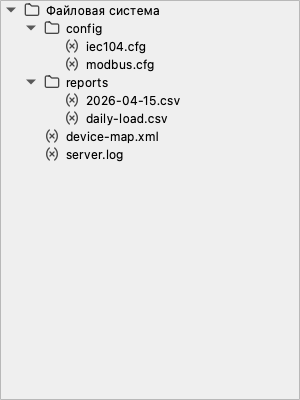
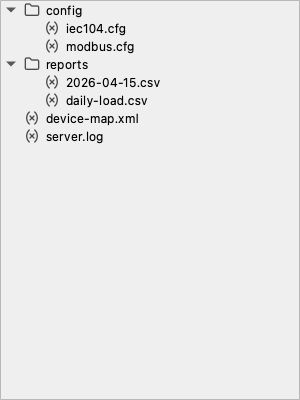
client: the Explorer's trees start at their content, not at a row repeating the pane title
Mirrors into Qt the information-architecture rule the web client took on in
f302f671a, which CLAUDE.md holds shared between the two realms: a single-subject
Explorer pane names its subject once, and a tree whose heading already names its
root draws no row for that root. Appearance stays each realm's own; only the
structure is shared.

Two of the web's three changes had nothing to mirror. Qt draws no section
heading anywhere -- a pane is a WIN_SING WindowInfo that ViewManager renders as
a QDockWidget titled from WindowInfo::title, and nothing sits between that title
bar and the tree. The root row was the whole duplication, and it hit all four
ConfigurationTreeView panes: against the shipped nodesets, Files read "Файлы"
over "Файлы", Objects "Объекты" over "Все объекты", Subsystems "Оборудование"
over "Все оборудование", Nodes "Узлы" over "Корневая папка".

The third had nothing to mirror either, and that is the finding worth keeping.
The web had to move the root's commands to a pane-head overflow, because its
tree row was the only selection target. Qt does not: UpdateSelection already
maps an EMPTY selection onto the root, so the context menu, the menu bar and the
command toolbar all still act on it. What Qt has no equivalent of is the
overflow control itself -- the docks wear Qt's stock title bar and no pane
carries a QToolBar -- so that is filed as 638 rather than invented here.

Hiding a root turned out to need work in Tree first. It is a
[…]

Changed region(s): [[0.03, 0.0, 0.6, 0.42], [0.09, 0.06, 0.12, 0.09]]

diff --git a/aui/qt/tree.cpp b/aui/qt/tree.cpp
@@ -29,6 +29,9 @@ class TreeProxyModel : public QSortFilterProxyModel {
   // QSortFilterProxyModel
   virtual bool lessThan(const QModelIndex& source_left,
                         const QModelIndex& source_right) const override;
+  virtual bool filterAcceptsRow(
+      int source_row,
+      const QModelIndex& source_parent) const override;
 
  private:
   Tree& tree_;
@@ -38,6 +41,20 @@ class TreeProxyModel : public QSortFilterProxyModel {
 void TreeProxyModel::SetCompareHandler(TreeCompareHandler handler) {
   compare_handler_ = std::move(handler);
   invalidateFilter();
+}
+
+// The model's one top-level row is the tree's root, and it is never filtered
+// out. Two reasons, and the second is a correctness one: dropping it hides the
+// whole tree anyway, since every other row descends from it; and
+// Tree::SetRootVisible(false) makes it the view's root index, a
+// QPersistentModelIndex that a removal invalidates for good — so a filter that
+// matched nothing would bring the root row back the moment it was cleared.
+// Rows below it filter normally, recursion included.
+bool TreeProxyModel::filterAcceptsRow(int source_row,
+                                      const QModelIndex& source_parent) const {
+  if (!source_parent.isValid())
+    return true;
+  return QSortFilterProxyModel::filterAcceptsRow(source_row, source_parent);
 }
 
 bool TreeProxyModel::lessThan(const QModelIndex& source_left,
@@ -103,6 +120,10 @@ Tree::Tree(std::shared_ptr<TreeModel> model)
   setModel(proxy_model_.get());
 
   SetRootVisible(false);
+  // A reset invalidates every index, the root index above among them, so it
+  // has to be set again — see TreeTest.HiddenRootStaysHiddenAcrossAModelReset.
+  connect(proxy_model_.get(), &QAbstractItemModel::modelReset, this,
+          &Tree::ApplyRootVisible);
 
   // https://stackoverflow.com/questions/26011291/initial-width-of-column-in-qtableview-via-model
   // If you need to initialize column widths based on Qt::SizeHintRole you need
@@ -245,13 +266,21 @@ void Tree::SetCheckedNodes(std::set<void*> nodes) {
 }
 
 void Tree::SetRootVisible(bool visible) {
-  if (visible) {
+  root_visible_ = visible;
+  ApplyRootVisible();
+}
+
+void Tree::ApplyRootVisible() {
+  if (root_visible_) {
     setRootIndex({});
     // A visible root still needs the branch decoration; otherwise the
     // top-level node loses its expander and only the root row is shown.
     setRootIsDecorated(true);
     expand(model()->index(0, 0));
   } else {
+    // Re-read the index rather than trusting the stored one: this also runs
+    // after a model reset, which invalidates the QPersistentModelIndex
+    // QTreeView keeps. Leaving it invalid silently re-exposes the root row.
     setRootIndex(model()->index(0, 0));
     setRootIsDecorated(true);
   }

diff --git a/aui/test/qt/tree_unittest.cpp b/aui/test/qt/tree_unittest.cpp
@@ -68,6 +68,16 @@ class LateFilledTreeModel : public scada::aui::TreeNodeModel<TestTreeNode> {
     if (root()->GetChildCount() != 0)
       Remove(*root(), 0, root()->GetChildCount());
   }
+
+  // Replaces the whole tree the way a model backed by one payload at a time
+  // does (`modules/watch/frame_decode_tree_model.cpp` is the one in the
+  // client): every index the view holds is invalidated.
+  void Reset() {
+    TreeModelResetting();
+    set_root(std::make_unique<TestTreeNode>(u"Root"));
+    TreeModelReset();
+    Populate();
+  }
 };
 
 }  // namespace
@@ -82,6 +92,50 @@ TEST(TreeTest, VisibleRootStaysDecoratedAndExpanded) {
   ASSERT_TRUE(root_index.isValid());
   EXPECT_TRUE(tree.rootIsDecorated());
   EXPECT_TRUE(tree.isExpanded(root_index));
+}
+
+// A hidden root is the view's root index, which a model reset invalidates. Left
+// unrestored, the root row reappears above the tree — which is what every
+// decode after the first drew in the protocol-trace pane before the pane
+// re-hid it by hand.
+TEST(TreeTest, HiddenRootStaysHiddenAcrossAModelReset) {
+  AppEnvironment app_env;
+
+  auto model = std::make_shared<LateFilledTreeModel>();
+  model->Populate();
+  scada::aui::Tree tree{model};
+  ASSERT_TRUE(tree.rootIndex().isValid());
+  // The root's children are the top level: one group, not one root row.
+  ASSERT_EQ(tree.model()->rowCount(tree.rootIndex()), 1);
+
+  model->Reset();
+
+  EXPECT_TRUE(tree.rootIndex().isValid());
+  EXPECT_EQ(tree.model()->rowCount(tree.rootIndex()), 1);
+  EXPECT_EQ(tree.model()
+                ->index(0, 0, tree.rootIndex())
+                .data(Qt::DisplayRole)
+                .toString(),
+            QStringLiteral("Group"));
+}
+
+// The model's single top-level row is the tree's root and is never filtered
+// away: it is the hidden root's persistent index, and losing it to a filter
+// that matched nothing would bring the root row back once the filter cleared.
+TEST(TreeTest, RootSurvivesAFilterThatMatchesNothing) {
+  AppEnvironment app_env;
+
+  scada::aui::Tree tree{MakeTreeModel()};
+  const auto root_index = tree.rootIndex();
+  ASSERT_TRUE(root_index.isValid());
+
+  tree.SetFilterText(u"nothing matches this");
+  EXPECT_TRUE(tree.rootIndex().isValid());
+  EXPECT_EQ(tree.model()->rowCount(tree.rootIndex()), 0);
+
+  tree.SetFilterText(u"");
+  EXPECT_EQ(tree.rootIndex(), root_index);
+  EXPECT_EQ(tree.model()->rowCount(tree.rootIndex()), 3);
 }
 
 TEST(TreeTest, GetChildNodesReturnsModelNodesInViewOrder) {

diff --git a/aui/qt/tree.h b/aui/qt/tree.h
@@ -24,6 +24,18 @@ class Tree : public QTreeView {
   explicit Tree(std::shared_ptr<TreeModel> model);
   ~Tree();
 
+  // Shows or hides the row for the model's single top-level node.
+  //
+  // Hidden (the default) makes that node the view's root: its children become
+  // the top level and no row is drawn for the node itself. That is what an
+  // Explorer pane whose whole subject is one subtree wants — the pane already
+  // names the node, so its row says the same thing a second time, and the
+  // screen mockups draw such a tree with no root row at all
+  // (docs/product/ui-mockups/screens/config-workbench.html starts the hardware
+  // tree at the device groups under a `Hardware` pane head).
+  //
+  // The cost is that the node stops being a clickable row, so a view that
+  // hides it must keep its commands reachable some other way.
   void SetRootVisible(bool visible);
   void SetHeaderVisible(bool visible);
 
@@ -94,6 +106,10 @@ class Tree : public QTreeView {
  private:
   void ApplyThemePalette();
 
+  // Puts `root_visible_` into effect on the view. Re-run on every model reset,
+  // which drops the persistent root index a hidden root depends on.
+  void ApplyRootVisible();
+
   // The colour row glyphs are rendered in, from the live palette.
   Color GlyphTint() const;
 
@@ -107,6 +123,11 @@ class Tree : public QTreeView {
 
   // Held so ExpandAllWhenPopulated can disconnect itself after it fires.
   QMetaObject::Connection populated_connection_;
+
+  // Last SetRootVisible request. A hidden root is held by a
+  // QPersistentModelIndex that a model reset kills, so the state has to be
+  // remembered and re-applied rather than set once.
+  bool root_visible_ = false;
 
   friend class TreeProxyModel;
 };

diff --git a/tools/screenshot_generator/main.cpp b/tools/screenshot_generator/main.cpp
@@ -607,7 +607,11 @@ TEST_F(ScreenshotGenerator, CaptureMainWindow) {
   for (int i = 0; i < 10; ++i)
     QApplication::processEvents();
 
-  QModelIndex root_index = tree->model()->index(0, 0, tree->rootIndex());
+  // The Explorer tree already roots itself at the synthetic tree root, so its
+  // rootIndex IS the node whose children are the object rows — do not descend
+  // another level or the capture would show one branch instead of the tree.
+  // The fallback covers a tree that has not had its root index applied.
+  QModelIndex root_index = tree->rootIndex();
   if (!root_index.isValid())
     root_index = tree->model()->index(0, 0);
   ASSERT_TRUE(root_index.isValid());
@@ -616,9 +620,8 @@ TEST_F(ScreenshotGenerator, CaptureMainWindow) {
     tree->model()->fetchMore(root_index);
   ASSERT_TRUE(WaitForPendingNodeLoads(app_.node_service()));
 
-  // For the screenshot we want the object rows, not the synthetic tree root.
-  // Making the fetched root the view root sidesteps the "expanded root with
-  // empty child viewport" state that Qt sometimes gets into here.
+  // Re-asserted rather than assumed: this also sidesteps the "expanded root
+  // with empty child viewport" state that Qt sometimes gets into here.
   tree->setRootIndex(root_index);
   tree->setRootIsDecorated(true);
   tree->expand(tree->rootIndex());

diff --git a/modules/configuration/tree/configuration_tree_view.cpp b/modules/configuration/tree/configuration_tree_view.cpp
@@ -95,7 +95,20 @@ ConfigurationTreeView::ConfigurationTreeView(
   // cppcheck-suppress noOperatorEq
   tree_view_ = new scada::aui::Tree{model_};
   tree_view_->LoadGlyphs(kItemGlyphs, kTreeGlyphSize);
-  tree_view_->SetRootVisible(true);
+  // No root row (Tree's default): every pane built on this view is a dock
+  // whose title already names the tree's root, so the row repeated it. Against
+  // the shipped nodesets the Files pane read "Файлы" in its title bar and
+  // "Файлы" again on its first row, and Objects and Subsystems differed from
+  // their titles only by "Все". (The screenshot fixture names the file root
+  // "Файловая система", so files.png showed a milder version of the same
+  // thing than an operator did.)
+  // The screen mockups draw a single-subject Explorer tree with no root row:
+  // docs/product/ui-mockups/screens/config-workbench.html starts the hardware
+  // tree at the device groups directly under the `Hardware` pane head.
+  //
+  // The root stays reachable as a selection: UpdateSelection() below maps an
+  // empty selection onto it, so the tree's own context menu and every
+  // selection-driven command still act on the root when nothing is picked.
   tree_view_->SetSorted(true);
 
   tree_view_->SetFocusHandler([this] { controller_delegate_.Focus(); });

diff --git a/tools/screenshot_generator/view_capture.cpp b/tools/screenshot_generator/view_capture.cpp
@@ -212,8 +212,13 @@ bool CaptureViewSpec(const ScreenshotSpec& spec,
       // the top level. Without this a tree capture can go empty as silently
       // as a grid one — which is exactly how the favourites pane shipped
       // blank — and a top-level-only count says nothing about a tree whose
-      // single root row is the shell and whose content is its children (the
-      // Files view, where an empty file store still shows one row).
+      // content sits below its top row.
+      //
+      // Counted from the view's root index, so the row for a hidden root is
+      // not counted — which every Explorer tree now has. A pane whose store
+      // is empty therefore counts 0 rather than the 1 its root row used to
+      // contribute, and that is the honest number: the capture would be
+      // blank.
       if (const scada::aui::Tree* tree = FindTreeWidget(widget)) {
         if (tree->model())
           max_rows = std::max(

diff --git a/modules/watch/qt/frame_decode_pane.cpp b/modules/watch/qt/frame_decode_pane.cpp
@@ -80,10 +80,11 @@ void FrameDecodePane::Clear() {
 
 void FrameDecodePane::ShowDecode(const FrameDecode& decode) {
   model_->SetDecode(decode);
-  // Re-hiding the root is not redundant: Tree::SetRootVisible(false) works by
-  // setting the view's root index, and a model reset drops it — without this
-  // every decode after the first draws an empty root row above the tree.
-  tree_->SetRootVisible(false);
+  // No re-hiding of the root here any more: Tree::SetRootVisible(false) works
+  // by setting the view's root index, which a model reset drops, and `Tree`
+  // now restores it itself on every reset (aui/qt/tree.cpp, pinned by
+  // TreeTest.HiddenRootStaysHiddenAcrossAModelReset). Before that, every
+  // decode after the first drew an empty root row above the tree.
   // The tree is short and the point is to read it at a glance; nothing is
   // served by making the operator open every group.
   tree_->expandAll();
